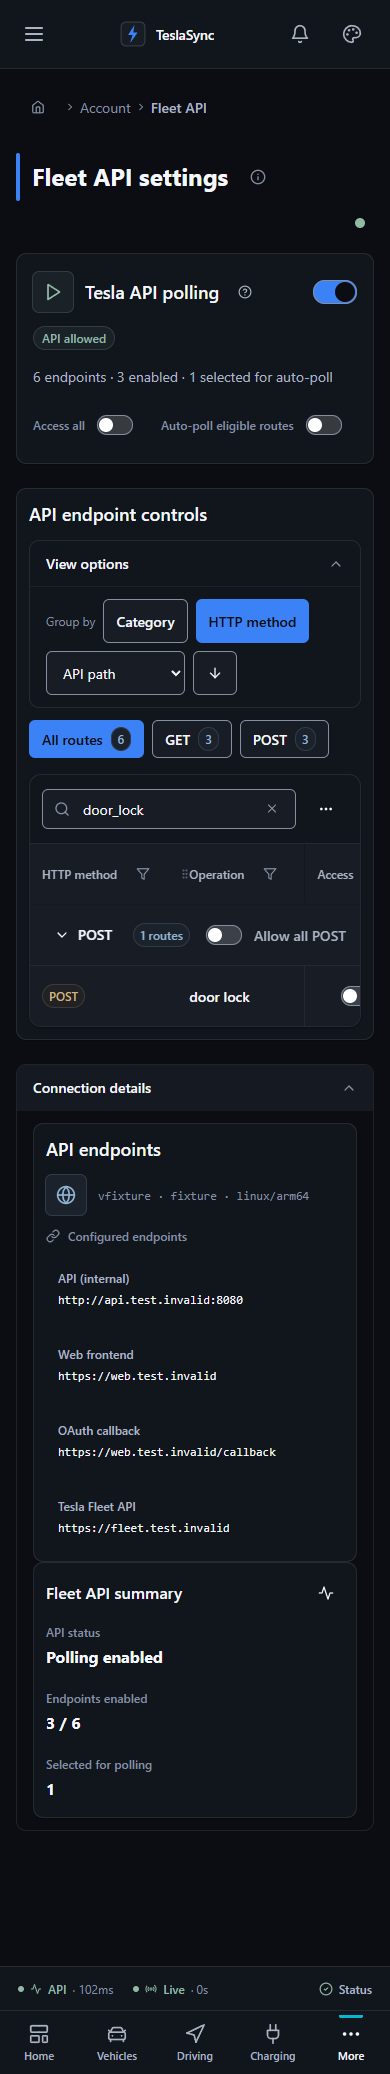
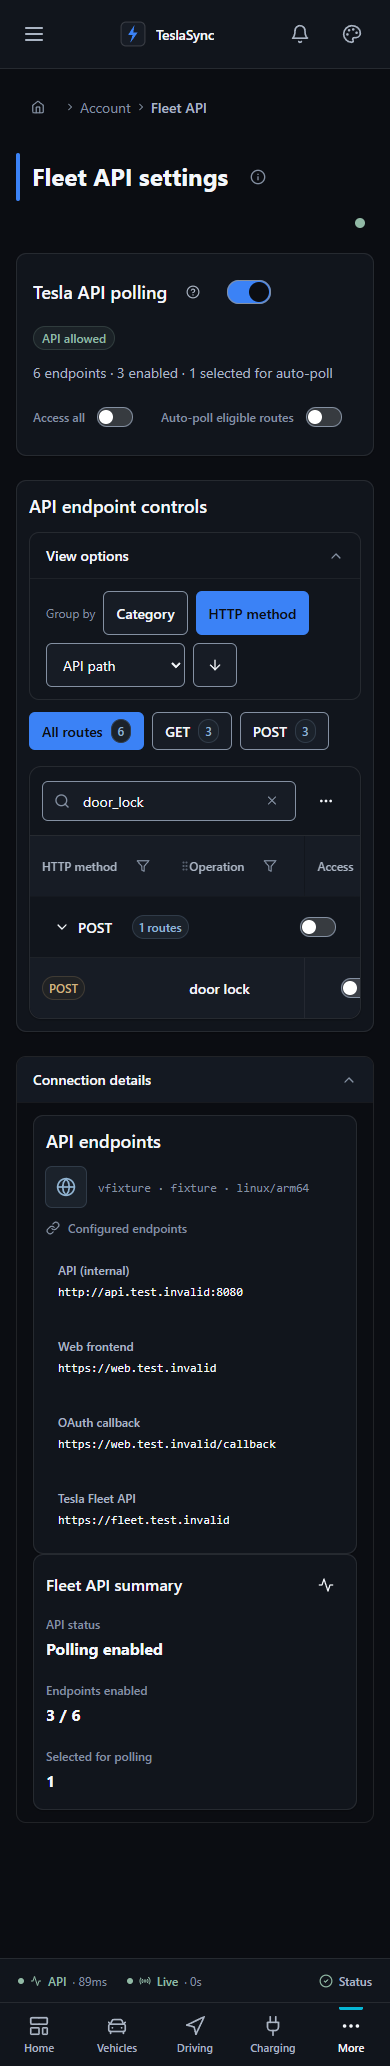
fix(web): align Fleet API controls in shared table cells
Keep the master toggle beside its title and Resume beside suspension status. Align category access switches with the standard Access column, retaining accessible group labels without redundant visible copy. Cover wide/mobile alignment and reordered/single-column layouts.

diff --git a/web/src/components/ui/DataTable.tsx b/web/src/components/ui/DataTable.tsx
@@ -339,7 +339,9 @@ interface DataTableProps<T> {
   rowGrouping?: {
     key: (row: T) => string
     label: (key: string) => string
+    summary?: (key: string, rows: T[]) => ReactNode
     actions?: (key: string, rows: T[]) => ReactNode
+    actionsColumn?: string
     autoExpand?: boolean
     resetKey?: string
   }
@@ -520,15 +522,21 @@ export function DataTable<T>({
   const { t } = useTranslation()
   const frameRef = useRef<HTMLDivElement>(null)
   const [mobileActive, setMobileActive] = useState(false)
+  const [compactGroups, setCompactGroups] = useState(false)
   const mobileEnabled = mobilePresentation != null
+  const observeFrame = mobileEnabled || rowGrouping?.actionsColumn != null
   useEffect(() => {
-    if (!mobileEnabled || !frameRef.current || typeof ResizeObserver === 'undefined') {
+    if (!observeFrame || !frameRef.current || typeof ResizeObserver === 'undefined') {
       setMobileActive(false)
+      setCompactGroups(false)
       return
     }
     const frame = frameRef.current
     const update = (width: number) => {
-      if (width > 0) setMobileActive(isMobileGridWidth(width))
+      if (width > 0) {
+        setMobileActive(mobileEnabled && isMobileGridWidth(width))
+        setCompactGroups(isMobileGridWidth(width))
+      }
     }
     update(frame.getBoundingClientRect().width)
     const observer = new ResizeObserver(entries => {
@@ -537,7 +545,7 @@ export function DataTable<T>({
     })
     observer.observe(frame)
     return () => observer.disconnect()
-  }, [mobileEnabled])
+  }, [mobileEnabled, observeFrame])
   const [localSearch, setLocalSearch] = useState('')
   const deferredLocalSearch = useDeferredValue(localSearch)
   const localSearchEnabled = searchable && !paginationControls && !controls?.search
@@ -1232,6 +1240,43 @@ export function DataTable<T>({
     return rows
   }
 
+  const renderGroup = (key: string, rows: T[]) => {
+    if (!rowGrouping) return null
+    const columnIndex = visibleColumns.findIndex(column => column.key === rowGrouping.actionsColumn)
+    const column = !compactGroups && columnIndex >= 0 && totalCols > 1 ? visibleColumns[columnIndex] : undefined
+    const before = leadingColCount + columnIndex
+    const after = totalCols - before - 1
+    const actions = rowGrouping.actions?.(key, rows)
+    const actionCell = column && (
+      <td data-column-key={column.key} className={cn(cellPaddingClass, alignClass(column.align),
+        column.groupStart && tableTokens.groupStart, colHiddenClass(column.key), column.className)}>
+        {actions}
+      </td>
+    )
+    return (
+      <tr key={`group:${key}`} data-row-group={key} className={tableTokens.row}>
+        {column && before === 0 && actionCell}
+        <td colSpan={column ? before || after : totalCols} className={cellPaddingClass}>
+          <div className="flex w-full max-w-[calc(100cqw-2rem)] flex-wrap items-center gap-2">
+            <Button variant="ghost" size="sm" className="min-h-11 min-w-11" wrapLabel
+              aria-expanded={groupIsOpen(key)}
+              aria-label={groupIsOpen(key)
+                ? t('table.collapseGroup', 'Collapse {{group}}', { group: rowGrouping.label(key) })
+                : t('table.expandGroup', 'Expand {{group}}', { group: rowGrouping.label(key) })}
+              onClick={() => toggleGroup(key)}>
+              <ChevronRight className={cn('h-4 w-4', groupIsOpen(key) && 'rotate-90')} aria-hidden="true" />
+              {rowGrouping.label(key)}
+            </Button>
+            {rowGrouping.summary?.(key, rows)}
+            {!column && actions && <div className="ml-auto shrink-0">{actions}</div>}
+          </div>
+        </td>
+        {column && before > 0 && actionCell}
+        {column && before > 0 && after > 0 && <td colSpan={after} className={cellPaddingClass} />}
+      </tr>
+    )
+  }
+
   // ── Render ──────────────────────────────────────────────────────────────
   // Sticky headers are on by default (see `stickyHeader` prop) so every
   // DataTable in the app pins its column titles when the body scrolls.
@@ -1686,22 +1731,7 @@ export function DataTable<T>({
                   groups.set(key, rows)
                   return groups
                 }, new Map<string, T[]>())].flatMap(([key, rows]) => [
-                  <tr key={`group:${key}`} data-row-group={key}>
-                    <td colSpan={totalCols} className="bg-[var(--surface-2)] px-3 py-2">
-                      <div className="sticky left-3 flex w-[calc(100cqw-1.5rem-2px)] flex-wrap items-center justify-between gap-2">
-                        <Button variant="ghost" size="sm" className="min-h-11 min-w-11"
-                          aria-expanded={groupIsOpen(key)}
-                          aria-label={groupIsOpen(key)
-                            ? t('table.collapseGroup', 'Collapse {{group}}', { group: rowGrouping.label(key) })
-                            : t('table.expandGroup', 'Expand {{group}}', { group: rowGrouping.label(key) })}
-                          onClick={() => toggleGroup(key)}>
-                          <ChevronRight className={cn('h-4 w-4', groupIsOpen(key) && 'rotate-90')} aria-hidden="true" />
-                          {rowGrouping.label(key)}
-                        </Button>
-                        {rowGrouping.actions?.(key, rows)}
-                      </div>
-                    </td>
-                  </tr>,
+                  renderGroup(key, rows),
                   ...(groupIsOpen(key) ? rows.flatMap(renderDataRow) : []),
                 ])
               ) : (

diff --git a/web/src/features/admin/components/structural-closure/fleet-api/FleetAPIPolling.tsx b/web/src/features/admin/components/structural-closure/fleet-api/FleetAPIPolling.tsx
@@ -1,5 +1,5 @@
-import { AlertTriangle, Pause, Play } from 'lucide-react';
-import { GlassPanel, IconBox, Toggle, PanelTitle, Text, Badge, Button, HelpTooltip } from '@/components/ui';
+import { AlertTriangle } from 'lucide-react';
+import { GlassPanel, Toggle, PanelTitle, Text, Badge, Button, HelpTooltip } from '@/components/ui';
 import { Skeleton, QueryError, InlineCallout } from '@/components/feedback';
 import { FadeIn } from '@/components/motion';
 import type { useFleetAPIPage } from '../../../hooks/useFleetAPIPage';
@@ -14,29 +14,35 @@ export function FleetAPIPolling({ controller }: Props) {
   return (
 <FadeIn delay={0.1}>
         <section>
-          <GlassPanel className="flex h-full flex-col gap-4 p-4 sm:p-5">
+          <GlassPanel className="flex flex-col gap-3 p-4 sm:p-5">
             <div className="flex flex-wrap items-center justify-between gap-3">
-              <div className="flex min-w-0 items-center gap-3">
-                <IconBox color={pollingConfig?.auto_polling_enabled ? 'green' : 'blue'}>
-                  {pollingConfig?.auto_polling_enabled ? <Play className="h-5 w-5" /> : <Pause className="h-5 w-5" />}
-                </IconBox>
+              <div className="flex min-w-0 flex-wrap items-center gap-3">
                 <div className="flex min-w-0 items-center gap-1">
                   <PanelTitle>{t('fleetApi.polling.title', 'Tesla API polling')}</PanelTitle>
                   <HelpTooltip text={t('fleetApi.polling.masterDesc', 'Off by default. Turning this off stops scheduled Fleet API reads, not manual requests or token refresh.')} />
                 </div>
-              </div>
-              {pollingKnown && (
+                {pollingKnown && (
                 <Toggle
                   checked={pollingConfig.auto_polling_enabled}
                   onChange={() => pollingConfigMut.mutate({ ...pollingConfig, auto_polling_enabled: !pollingConfig.auto_polling_enabled })}
                   aria-label={t('fleetApi.polling.toggleAria', 'Toggle Tesla API polling')}
                   disabled={pollingConfigMut.isPending}
                 />
-              )}
-              <Badge variant={!apiStatusKnown ? 'neutral' : apiSuspended ? 'danger' : 'success'}>
-                {!apiStatusKnown ? t('fleetApi.apiUnknown', 'API status unknown')
-                  : apiSuspended ? t('fleetApi.apiSuspended', 'API suspended') : t('fleetApi.apiAllowed', 'API allowed')}
-              </Badge>
+                )}
+              </div>
+              <div className="flex flex-wrap items-center gap-3">
+                <Badge variant={!apiStatusKnown ? 'neutral' : apiSuspended ? 'danger' : 'success'}>
+                  {!apiStatusKnown ? t('fleetApi.apiUnknown', 'API status unknown')
+                    : apiSuspended ? t('fleetApi.apiSuspended', 'API suspended') : t('fleetApi.apiAllowed', 'API allowed')}
+                </Badge>
+                {apiSuspended && !settingsState.fatalError && (
+                  <Button variant="secondary" size="sm" disabled={suspendMut.isPending}
+                    className="h-11 min-h-11 min-w-11 md:h-9 md:min-h-0 md:min-w-0"
+                    onClick={() => suspendMut.mutate(false)}>
+                    {t('fleetApi.polling.resumeActions', 'Resume API actions')}
+                  </Button>
+                )}
+              </div>
             </div>
 
             {pollingQuery.isLoading && !pollingState.hasData ? (
@@ -56,16 +62,9 @@ export function FleetAPIPolling({ controller }: Props) {
             {settingsState.fatalError ? (
               <QueryError error={settingsState.fatalError} onRetry={() => settingsQuery.refetch()} />
             ) : apiSuspended ? (
-              <div className="flex flex-wrap items-center gap-3">
                 <InlineCallout variant="danger" icon={<AlertTriangle />}>
                   {t('fleetApi.polling.emergencyNote', 'API actions were suspended previously; supported live requests and commands are blocked. Token refresh continues.')}
                 </InlineCallout>
-                <Button variant="secondary" size="sm" disabled={suspendMut.isPending}
-                  className="h-11 min-h-11 min-w-11 md:h-9 md:min-h-0 md:min-w-0"
-                  onClick={() => suspendMut.mutate(false)}>
-                  {t('fleetApi.polling.resumeActions', 'Resume API actions')}
-                </Button>
-              </div>
             ) : null}
           </GlassPanel>
 

diff --git a/web/e2e/fleet-api-presentation.smoke.spec.ts b/web/e2e/fleet-api-presentation.smoke.spec.ts
@@ -17,7 +17,7 @@ const catalog = [
 ];
 
 for (const theme of ['light', 'dark'] as const) {
-  for (const width of [390, 1280]) {
+  for (const width of [390, 1280, 1920, 2560]) {
     test(`fleet API presents one control surface at ${width}px ${theme}`, async ({ page }) => {
       await page.setViewportSize({ width, height: 1000 });
       await seedBrowserState(page, theme, '/fleet-api');
@@ -29,7 +29,13 @@ for (const theme of ['light', 'dark'] as const) {
         endpoint_catalog: catalog,
         telemetry_capture: false, telemetry_capture_retention_days: 7,
       };
-      await page.route('**/api/v1/settings', request => fulfillApiFixture(request, mocks, { json: mockAppSettings }));
+      const settings = { ...mockAppSettings, api_suspended: width >= 1920 };
+      await page.route('**/api/v1/settings', request => fulfillApiFixture(request, mocks, { json: settings }));
+      await page.route('**/api/v1/settings/suspend-api', async request => {
+        const update = request.request().postDataJSON() as { suspended: boolean };
+        settings.api_suspended = update.suspended;
+        await fulfillApiFixture(request, mocks, { json: { api_suspended: settings.api_suspended } });
+      });
       await page.route('**/api/v1/settings/polling-config', async request => {
         if (request.request().method() === 'PUT') {
           const update = request.request().postDataJSON() as Partial<typeof config>;
@@ -54,6 +60,42 @@ for (const theme of ['light', 'dark'] as const) {
       });
       await page.setViewportSize({ width, height: 1000 });
       await expectNoHorizontalOverflow(page);
+      await expect(page.getByText(/^Allow all /)).toHaveCount(0);
+      const titleBox = await page.getByText('Tesla API polling', { exact: true }).boundingBox();
+      const masterBox = await page.getByRole('switch', { name: 'Toggle Tesla API polling' }).boundingBox();
+      expect(titleBox).not.toBeNull();
+      expect(masterBox).not.toBeNull();
+      expect(masterBox!.x - titleBox!.x - titleBox!.width).toBeLessThan(90);
+      expect(Math.abs(masterBox!.y + masterBox!.height / 2 - titleBox!.y - titleBox!.height / 2)).toBeLessThan(4);
+      const groupSwitches = await page.getByRole('switch', { name: /^Allow all / }).all();
+      const groupCenters = await Promise.all(groupSwitches.map(async toggle => {
+        const box = await toggle.boundingBox();
+        return box!.x + box!.width / 2;
+      }));
+      expect(Math.max(...groupCenters) - Math.min(...groupCenters)).toBeLessThan(2);
+      if (width >= 1280) {
+        const accessHeader = await page.locator('th[data-column-key="access"]').boundingBox();
+        const switches = await page.getByRole('switch', { name: /^Allow all / }).all();
+        for (const toggle of switches) {
+          const box = await toggle.boundingBox();
+          expect(Math.abs(box!.x + box!.width / 2 - accessHeader!.x - accessHeader!.width / 2)).toBeLessThan(2);
+        }
+        await expect(page.locator('[data-row-group] td[data-column-key="auto"] [role="switch"]')).toHaveCount(0);
+        const overflow = await page.locator('[data-grid-frame]').evaluate(node => {
+          const table = node.querySelector('table')!;
+          return table.getBoundingClientRect().width - node.getBoundingClientRect().width;
+        });
+        expect(overflow).toBeLessThanOrEqual(1);
+      }
+      if (settings.api_suspended) {
+        const badge = await page.getByText('API suspended', { exact: true }).boundingBox();
+        const resume = page.getByRole('button', { name: 'Resume API actions', exact: true });
+        const resumeBox = await resume.boundingBox();
+        expect(resumeBox!.x - badge!.x - badge!.width).toBeLessThanOrEqual(16);
+        await resume.click();
+        await expect(page.getByText('API allowed', { exact: true })).toBeVisible();
+        await expect(page.getByText(/API actions were suspended previously/)).toHaveCount(0);
+      }
       if (width < 768) await page.getByRole('main').getByRole('button', { name: 'More', exact: true }).click();
       await expect(page.getByRole('button', { name: 'Export list' })).toHaveCount(1);
       await page.getByRole('radio', { name: 'Compact', exact: true }).click();

diff --git a/web/src/features/admin/components/structural-closure/fleet-api/FleetAPIRouteCatalog.tsx b/web/src/features/admin/components/structural-closure/fleet-api/FleetAPIRouteCatalog.tsx
@@ -91,14 +91,13 @@ export function FleetAPIRouteCatalog({ controller, pollingConfig }: Props) {
                         label: groupLabel,
                         resetKey: `${groupBy}:${selectedGroup}:${search}`,
                         autoExpand: !!search.trim() || selectedGroup !== 'all',
-                        actions: (group, rows) => {
+                        summary: (_, rows) => <Badge size="sm" variant="info">{t('fleetApi.controls.groupCount', '{{count}} routes', { count: rows.length })}</Badge>,
+                        actionsColumn: 'access',
+                        actions: group => {
                           const members = catalog.filter(endpoint => (groupBy === 'category' ? endpoint.category : endpoint.method) === group);
-                          return <div className="flex flex-wrap items-center gap-3">
-                            <Badge size="sm" variant="info">{t('fleetApi.controls.groupCount', '{{count}} routes', { count: rows.length })}</Badge>
-                            <Toggle size="sm" checked={members.every(endpoint => !!pollingConfig.fleet_endpoints[endpoint.key])}
-                              disabled={pollingConfigMut.isPending} onChange={() => toggleGroupAccess(group)}
-                              label={t('fleetApi.allowGroup', 'Allow all {{group}}', { group: groupLabel(group) })} />
-                          </div>;
+                          return <Toggle size="sm" checked={members.every(endpoint => !!pollingConfig.fleet_endpoints[endpoint.key])}
+                            disabled={pollingConfigMut.isPending} onChange={() => toggleGroupAccess(group)}
+                            aria-label={t('fleetApi.allowGroup', 'Allow all {{group}}', { group: groupLabel(group) })} />;
                         },
                       }}
                     />

diff --git a/web/src/components/ui/__tests__/DataTable.filteredEmpty.test.tsx b/web/src/components/ui/__tests__/DataTable.filteredEmpty.test.tsx
@@ -69,6 +69,30 @@ function excludeAllValues() {
 }
 
 describe('DataTable filtered empty copy', () => {
+  it.each([false, true])('aligns group actions with their shared column when reordered=%s', (reversed) => {
+    mount({ columns: reversed ? [...columns].reverse() : columns,
+      rowGrouping: { key: row => row.status, label: key => key, actionsColumn: 'status',
+        actions: key => <Button aria-label={`Allow ${key}`}>Allow</Button> },
+    })
+    const action = screen.getByRole('button', { name: 'Allow Ready' })
+    expect(action.closest('td')).toHaveAttribute('data-column-key', 'status')
+    const cells = action.closest('tr')!.querySelectorAll('td')
+    expect(cells).toHaveLength(2)
+    expect(cells[reversed ? 0 : 1]).toContainElement(action)
+    expect(screen.getByRole('button', { name: 'Expand Ready' })).toBeInTheDocument()
+  })
+
+  it('keeps the group disclosure and action available with only the action column visible', () => {
+    mount({ columns: [columns[1]],
+      rowGrouping: { key: row => row.status, label: key => key, actionsColumn: 'status',
+        actions: key => <Button aria-label={`Allow ${key}`}>Allow</Button> },
+    })
+    const action = screen.getByRole('button', { name: 'Allow Ready' })
+    expect(action.closest('td')).toHaveAttribute('colspan', '1')
+    expect(action.closest('tr')!.querySelectorAll('td')).toHaveLength(1)
+    expect(screen.getByRole('button', { name: 'Expand Ready' })).toBeInTheDocument()
+  })
+
   it('keeps object-property group names independent when another group is expanded', () => {
     mount({ data: [{ ...rows[0], status: 'constructor' }, rows[1]],
       rowGrouping: { key: row => row.status, label: key => key },
